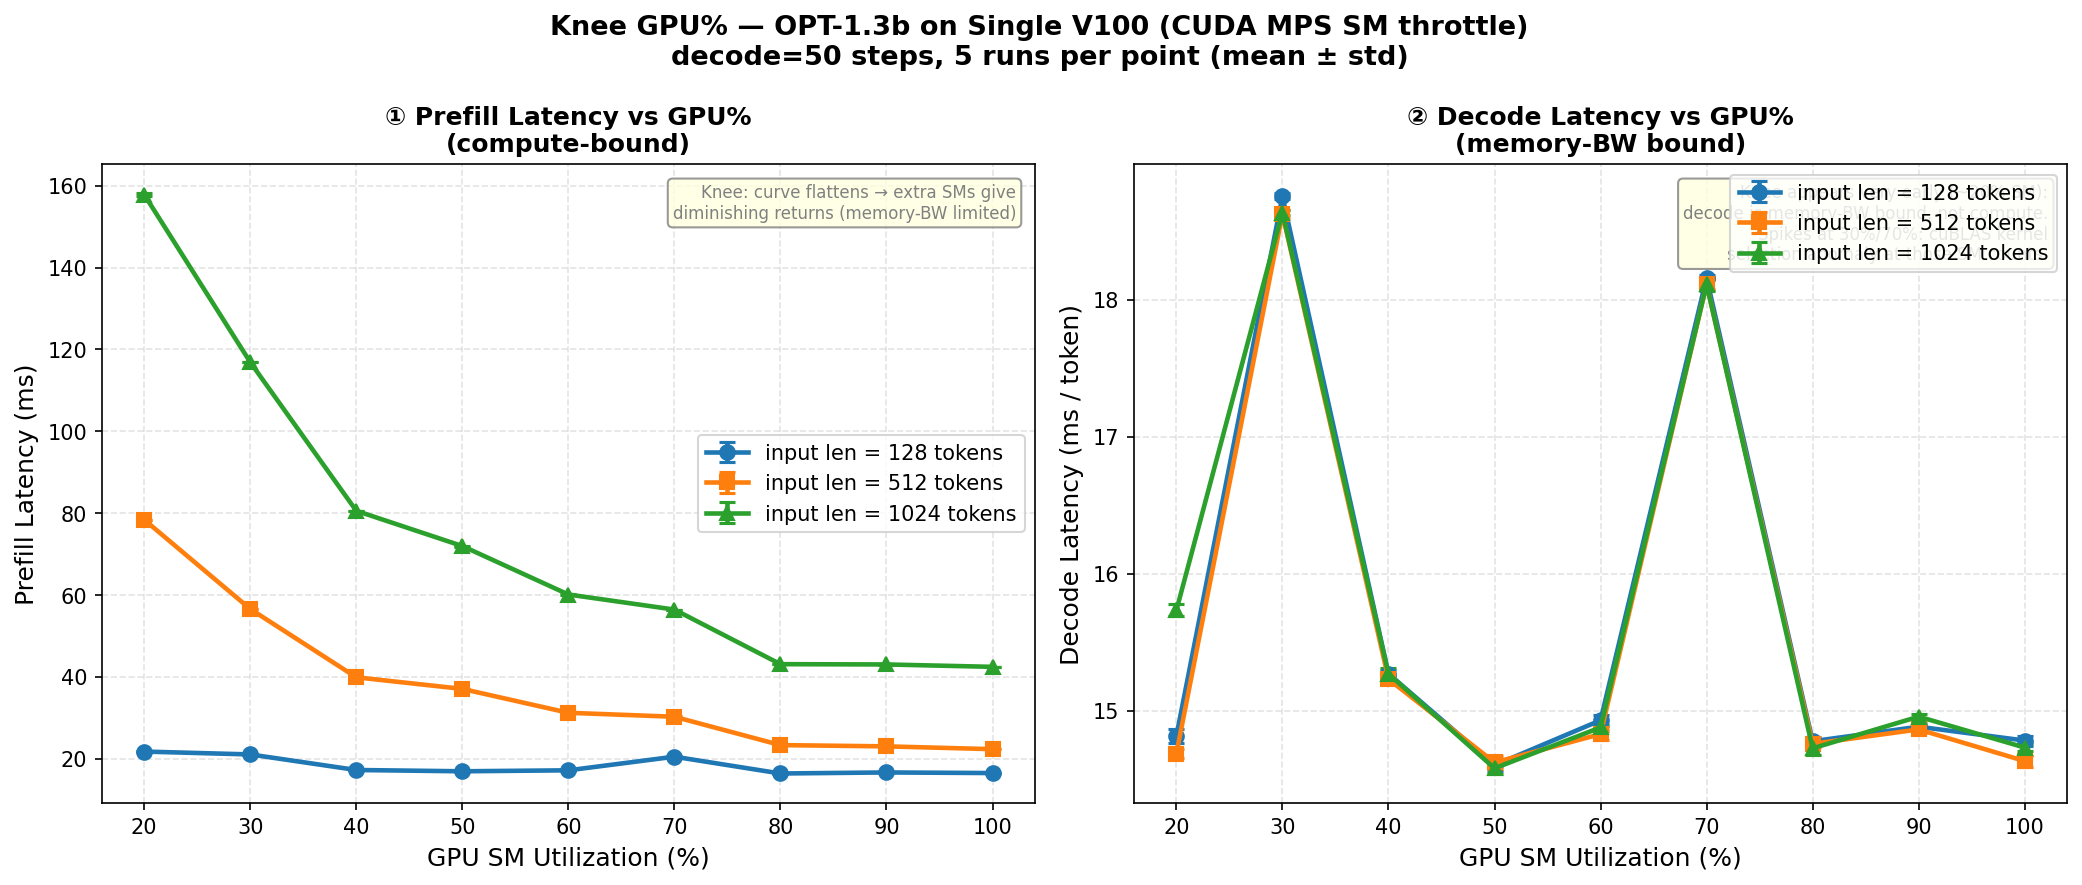
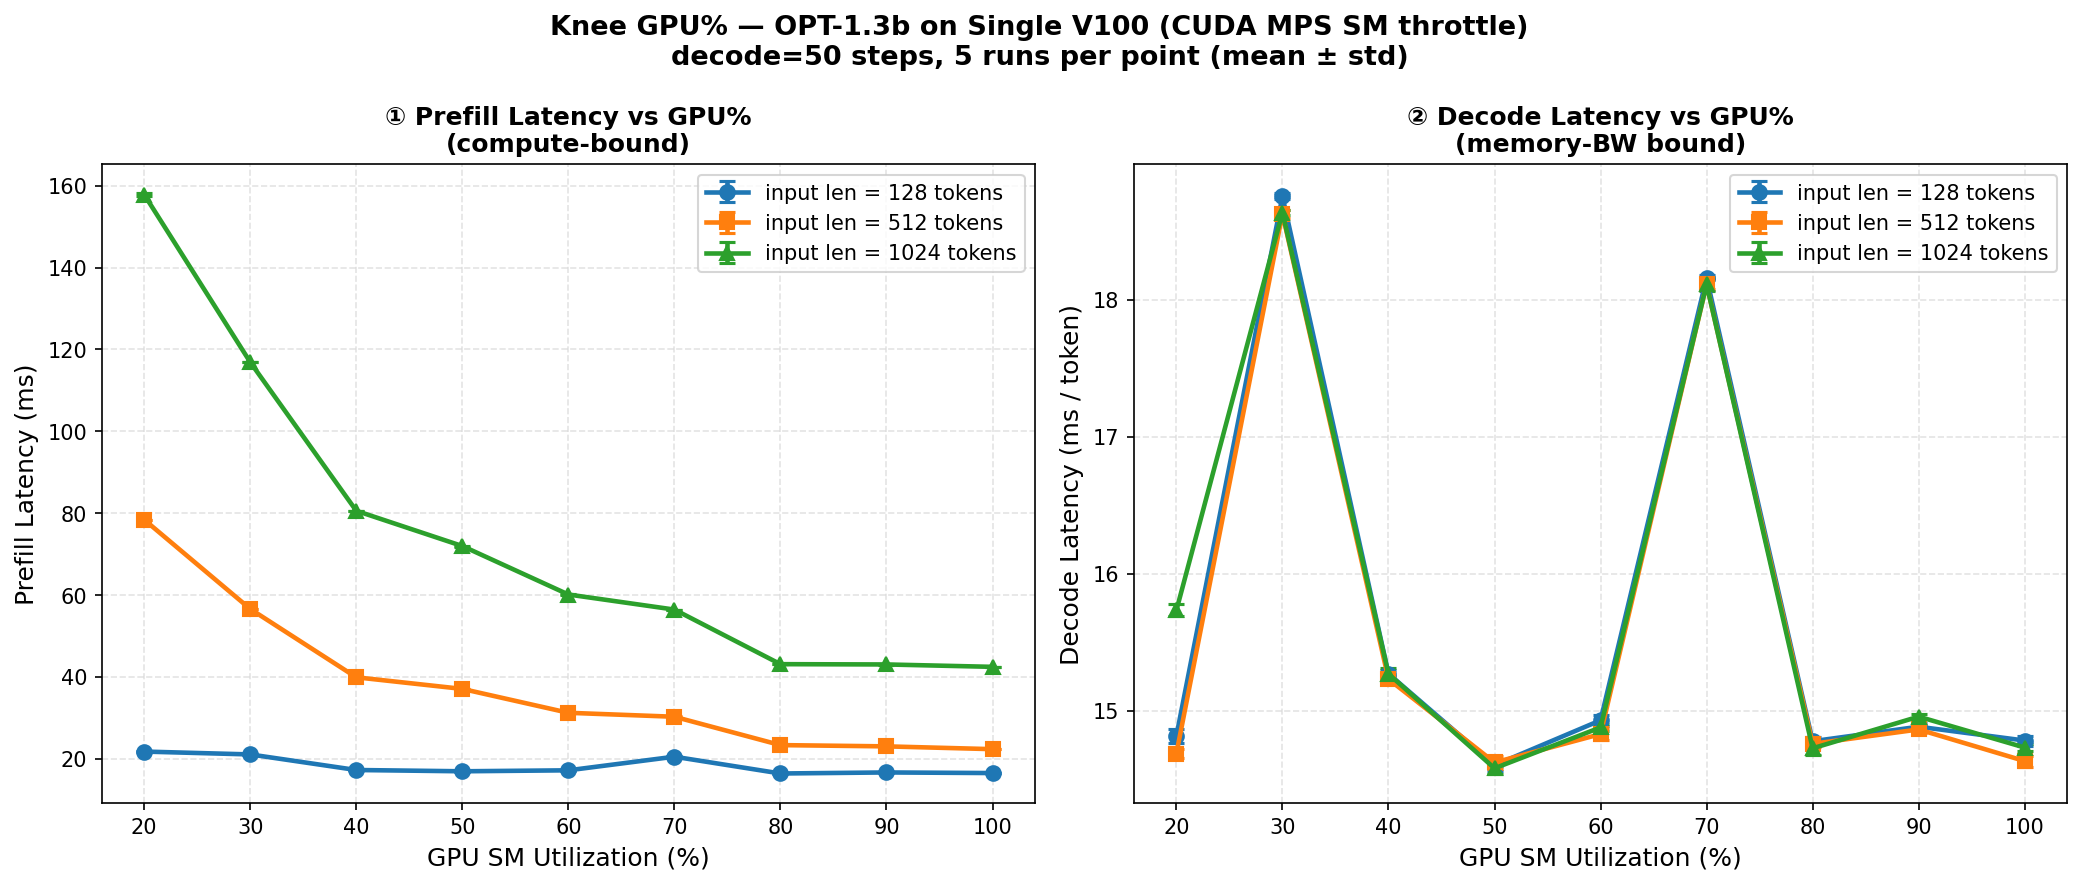
fix

Changed region(s): [[0.3122, 0.1831, 0.4995, 0.3051], [0.3434, 0.4881, 0.4995, 0.6102], [0.7805, 0.1831, 0.8429, 0.3051]]

diff --git a/knee_verify.py b/knee_verify.py
@@ -220,12 +220,6 @@ def plot(results=None):
     ax1.set_xticks(pcts)
     ax1.legend(fontsize=10)
     ax1.grid(True, alpha=0.35, linestyle="--")
-    ax1.annotate(
-        "Knee: curve flattens → extra SMs give\ndiminishing returns (memory-BW limited)",
-        xy=(0.98, 0.97), xycoords="axes fraction",
-        fontsize=8, color="gray", ha="right", va="top",
-        bbox=dict(boxstyle="round,pad=0.3", fc="lightyellow", ec="gray", alpha=0.8),
-    )
 
     # ── Right: Decode ───────────────────────────────────────────────────
     for i, il in enumerate(input_lens):
@@ -244,12 +238,6 @@ def plot(results=None):
     ax2.set_xticks(pcts)
     ax2.legend(fontsize=10)
     ax2.grid(True, alpha=0.35, linestyle="--")
-    ax2.annotate(
-        "Knee appears very early (~20% SM):\ndecode is memory-BW bound, not compute.\nSpikes at 30%/70%: cuBLAS kernel\nselection anomaly at those SM counts.",
-        xy=(0.98, 0.97), xycoords="axes fraction",
-        fontsize=8, color="gray", ha="right", va="top",
-        bbox=dict(boxstyle="round,pad=0.3", fc="lightyellow", ec="gray", alpha=0.8),
-    )
 
     plt.tight_layout()
     plt.savefig(PLOT_FILE, dpi=150, bbox_inches="tight")
